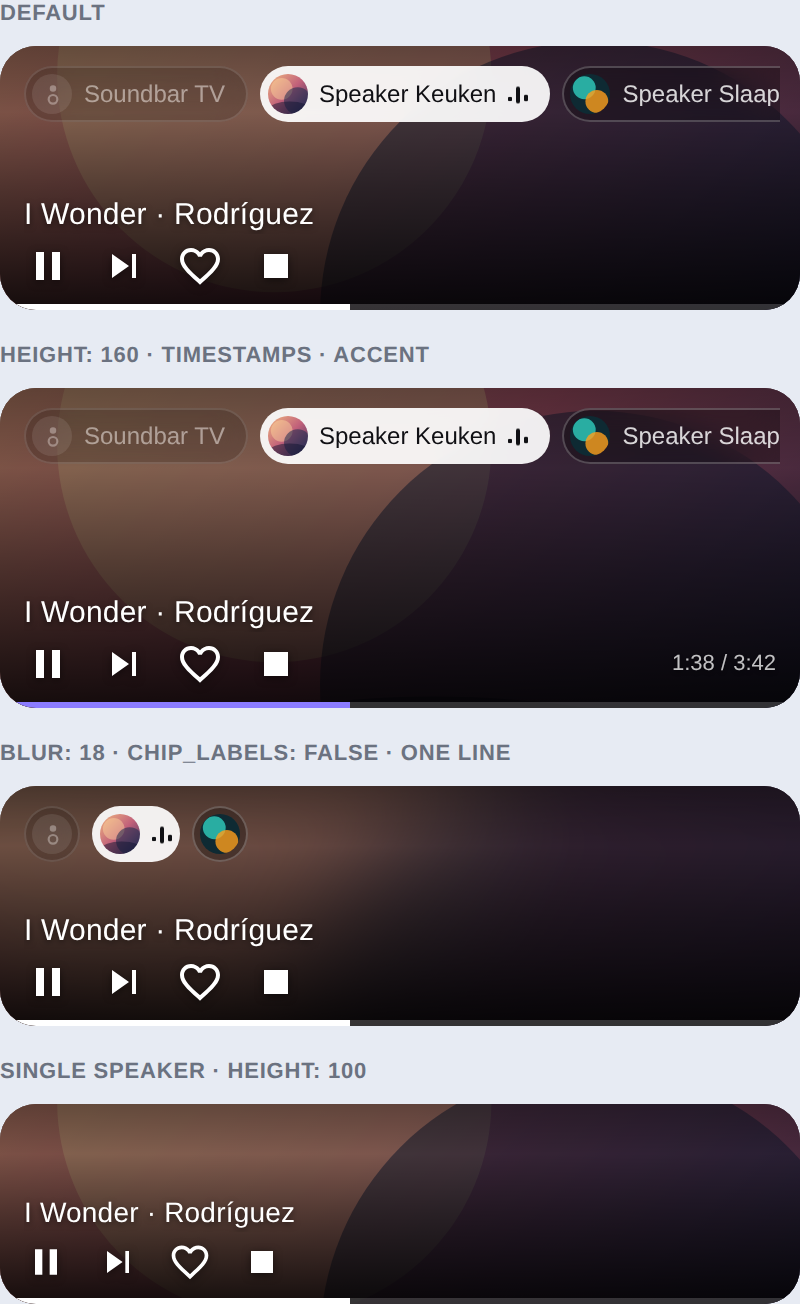
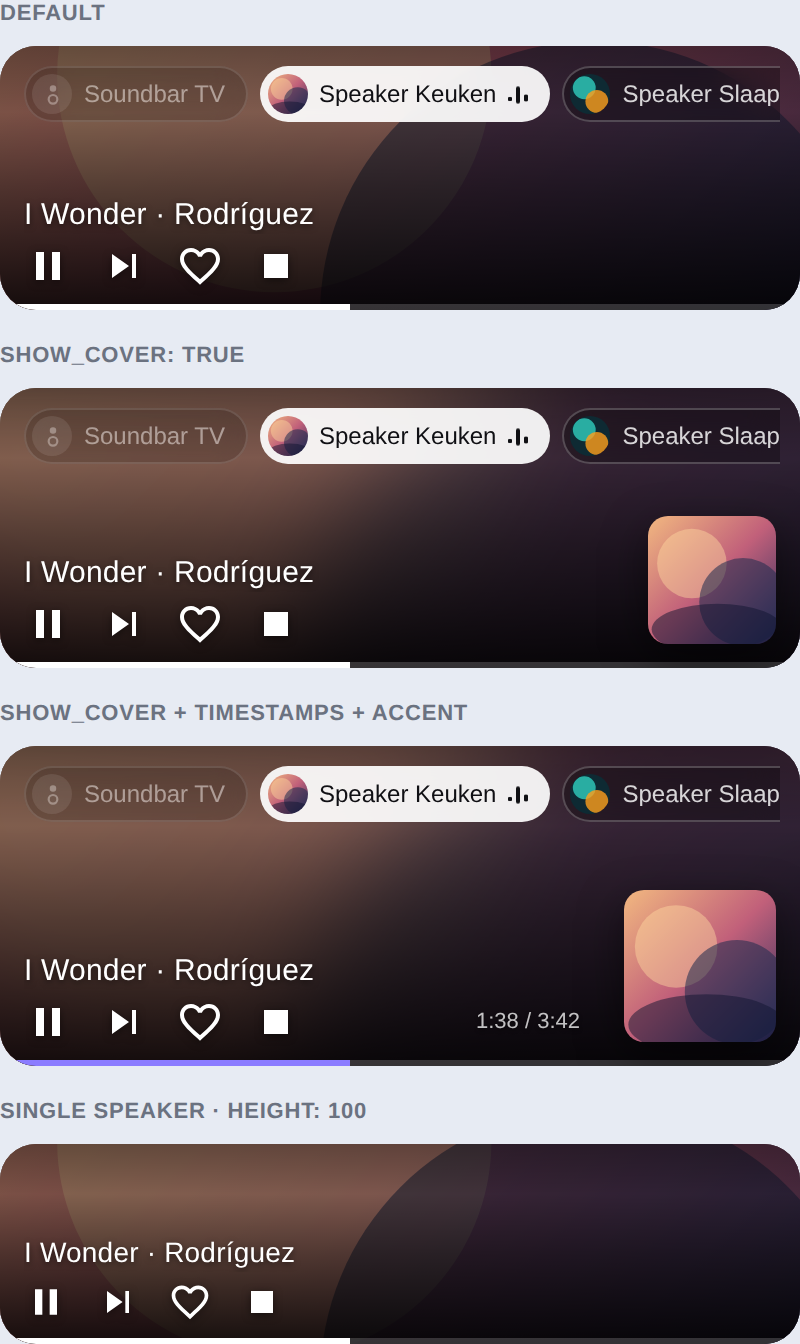
Add optional cover thumbnail over a blurred background
show_cover puts a sharp copy of the album art in a corner of the card and
blurs the background behind it, filling the space next to the controls.

- cover_size, cover_position (any of the four corners) and cover_radius.
- Enabling it defaults blur to 18 unless blur is set explicitly.
- Text, controls and the chip row reserve space so nothing slides under
  the thumbnail; the chip row uses a margin since it scrolls.

Claude-Session: https://claude.ai/code/session_01EbwvGixoy6TRiH85L52qbU

diff --git a/minimal-music-player.js b/minimal-music-player.js
@@ -127,6 +127,10 @@ const DEFAULTS = {
   artwork_position: "center center",
   blur: 0,
   dim: 0.35,
+  show_cover: false,
+  cover_size: 64,
+  cover_position: "bottom right",
+  cover_radius: 10,
   gradient: true,
   accent: "#ffffff",
   title_format: "{title} · {artist}",
@@ -208,6 +212,13 @@ class MinimalMusicPlayer extends HTMLElement {
     if (showChips === false) showChips = "never";
 
     this._config = { ...DEFAULTS, ...config, controls, show_chips: showChips };
+
+    // A sharp cover on top of a sharp background is mush, so blur the
+    // background unless the user picked a value themselves.
+    if (this._config.show_cover && config.blur === undefined) {
+      this._config.blur = 18;
+    }
+
     this._entities = entities;
     this._built = false;
     this.shadowRoot.innerHTML = "";
@@ -363,6 +374,7 @@ class MinimalMusicPlayer extends HTMLElement {
     card.innerHTML = `
       <div class="bg"></div>
       <div class="scrim"></div>
+      <div class="cover"></div>
       <div class="content">
         <div class="chips"></div>
         <div class="spacer"></div>
@@ -380,6 +392,7 @@ class MinimalMusicPlayer extends HTMLElement {
     this._els = {
       card,
       bg: card.querySelector(".bg"),
+      cover: card.querySelector(".cover"),
       chips: card.querySelector(".chips"),
       info: card.querySelector(".info"),
       marquee: card.querySelector(".marquee"),
@@ -392,6 +405,13 @@ class MinimalMusicPlayer extends HTMLElement {
       fill: card.querySelector(".fill"),
       buttons: {},
     };
+
+    if (c.show_cover) {
+      const tokens = String(c.cover_position).toLowerCase().split(/\s+/);
+      const vertical = tokens.includes("top") ? "top" : "bottom";
+      const horizontal = tokens.includes("left") ? "left" : "right";
+      card.classList.add("has-cover", `cover-${vertical}`, `cover-${horizontal}`);
+    }
 
     this._buildChips();
     this._buildControls();
@@ -518,13 +538,22 @@ class MinimalMusicPlayer extends HTMLElement {
   }
 
   _updateBackground(stateObj) {
-    if (this._config.artwork === "none") return;
     const url = this._artworkUrl(stateObj);
     const next = url ? `url("${url}")` : "none";
-    if (this._els.bg.style.backgroundImage !== next) {
-      this._els.bg.style.backgroundImage = next;
+
+    if (this._config.artwork !== "none") {
+      if (this._els.bg.style.backgroundImage !== next) {
+        this._els.bg.style.backgroundImage = next;
+      }
+      this._els.card.classList.toggle("no-art", !url);
     }
-    this._els.card.classList.toggle("no-art", !url);
+
+    if (this._config.show_cover) {
+      if (this._els.cover.style.backgroundImage !== next) {
+        this._els.cover.style.backgroundImage = next;
+      }
+      this._els.cover.classList.toggle("hidden", !url);
+    }
   }
 
   _updateText(entityId, stateObj, idle) {
@@ -814,6 +843,10 @@ class MinimalMusicPlayer extends HTMLElement {
         --mmp-radius: ${c.radius}px;
         --mmp-icon: ${c.control_size}px;
         --mmp-font: ${c.font_size}px;
+        --mmp-cover: ${c.cover_size}px;
+        --mmp-cover-radius: ${c.cover_radius}px;
+        --mmp-cover-inset: 12px;
+        --mmp-cover-space: calc(var(--mmp-cover) + var(--mmp-cover-inset) + 10px);
         display: block;
       }
       .card {
@@ -856,6 +889,39 @@ class MinimalMusicPlayer extends HTMLElement {
           rgba(0, 0, 0, ${c.dim});
         cursor: pointer;
       }
+
+      /* --------------------------------------------------- cover thumbnail */
+      .cover {
+        position: absolute;
+        z-index: 1;
+        width: var(--mmp-cover);
+        height: var(--mmp-cover);
+        border-radius: var(--mmp-cover-radius);
+        background-size: cover;
+        background-position: center;
+        box-shadow: 0 8px 22px rgba(0, 0, 0, 0.5);
+        pointer-events: none;
+        display: none;
+        transition: opacity 300ms ease;
+      }
+      .card.has-cover .cover { display: block; }
+      .cover.hidden { opacity: 0; }
+      .cover-bottom .cover { bottom: var(--mmp-cover-inset); }
+      .cover-top .cover { top: var(--mmp-cover-inset); }
+      .cover-right .cover { right: var(--mmp-cover-inset); }
+      .cover-left .cover { left: var(--mmp-cover-inset); }
+
+      /* Keep text and controls clear of the thumbnail. */
+      .cover-bottom.cover-right .info,
+      .cover-bottom.cover-right .row,
+      .cover-bottom.cover-right .volume { padding-right: var(--mmp-cover-space); }
+      .cover-bottom.cover-left .info,
+      .cover-bottom.cover-left .row,
+      .cover-bottom.cover-left .volume { padding-left: var(--mmp-cover-space); }
+      /* The chip row scrolls, so it needs a smaller box -- padding would let
+         chips slide underneath the thumbnail. */
+      .cover-top.cover-right .chips { margin-right: var(--mmp-cover-space); }
+      .cover-top.cover-left .chips { margin-left: var(--mmp-cover-space); }
 
       .content {
         position: relative;
@@ -1130,6 +1196,35 @@ const EDITOR_SCHEMA = [
       { name: "chip_artwork", selector: { boolean: {} } },
       { name: "chip_labels", selector: { boolean: {} } },
       { name: "show_volume", selector: { boolean: {} } },
+      { name: "show_cover", selector: { boolean: {} } },
+    ],
+  },
+  {
+    type: "grid",
+    name: "",
+    schema: [
+      {
+        name: "cover_size",
+        selector: { number: { min: 32, max: 160, mode: "box" } },
+      },
+      {
+        name: "cover_radius",
+        selector: { number: { min: 0, max: 80, mode: "box" } },
+      },
+      {
+        name: "cover_position",
+        selector: {
+          select: {
+            mode: "dropdown",
+            options: [
+              "bottom right",
+              "bottom left",
+              "top right",
+              "top left",
+            ],
+          },
+        },
+      },
     ],
   },
   {
@@ -1185,6 +1280,10 @@ const EDITOR_LABELS = {
   chip_artwork: "Artwork on chips",
   chip_labels: "Names on chips",
   show_volume: "Volume slider",
+  show_cover: "Cover thumbnail",
+  cover_size: "Cover size",
+  cover_radius: "Cover radius",
+  cover_position: "Cover corner",
   show_chips: "Speaker chips",
   idle: "When idle",
   stop_behavior: "Stop button",

diff --git a/README.md b/README.md
@@ -12,6 +12,7 @@ mind, but it works with any `media_player` entity.
 - Only the controls you list — by default play/pause, next, favourite and stop.
 - No dead space: the card is 132 px high out of the box.
 - Artwork fills the whole card, with an optional blur and dim.
+- Or: a sharp cover thumbnail in a corner over a blurred background.
 - Thin progress bar at the very bottom, tap it to seek.
 - Everything above is configurable, from the GUI editor or in YAML.
 
@@ -82,6 +83,28 @@ chip for the more-info dialog.
 | `dim` | number | `0.35` | Black overlay, `0`–`1`. |
 | `gradient` | boolean | `true` | Extra gradient behind the text for legibility. |
 | `accent` | string | `#ffffff` | Colour of the progress bar and the active icons. |
+
+### Cover thumbnail
+
+Fills the empty corner with a sharp copy of the cover while the background
+stays blurred behind it.
+
+| Option | Type | Default | Description |
+| --- | --- | --- | --- |
+| `show_cover` | boolean | `false` | Show the thumbnail. |
+| `cover_size` | number | `64` | Size in pixels. |
+| `cover_position` | string | `bottom right` | `bottom right`, `bottom left`, `top right` or `top left`. |
+| `cover_radius` | number | `10` | Corner radius; set it to half the size for a circle. |
+
+```yaml
+show_cover: true
+```
+
+That is all you need — switching the thumbnail on sets `blur: 18` for you,
+because a sharp cover on top of a sharp background reads as mush. Set `blur`
+yourself to override it (including `blur: 0`). The text and the buttons keep
+clear of the thumbnail automatically, so the timestamps land next to it rather
+than under it.
 
 ### Text
 
@@ -199,6 +222,19 @@ height: 100
 controls: [play, next, favorite]
 control_size: 22
 font_size: 14
+```
+
+Cover in the corner, timestamps beside it:
+
+```yaml
+type: custom:minimal-music-player
+entities:
+  - media_player.speaker_keuken_2
+  - media_player.speaker_slaapkamer
+show_cover: true
+cover_size: 76
+height: 150
+show_timestamps: true
 ```
 
 Frosted look, avatar-only chips:
